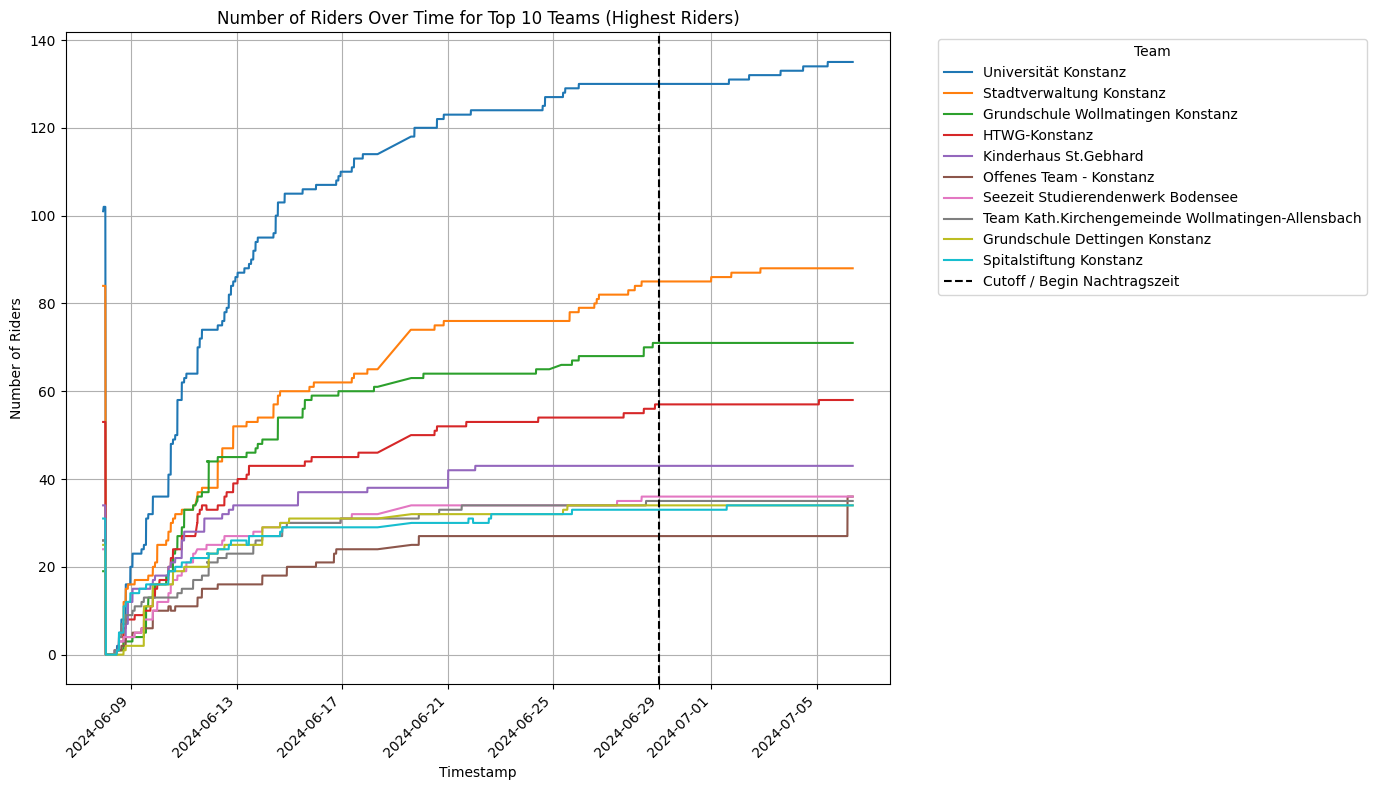
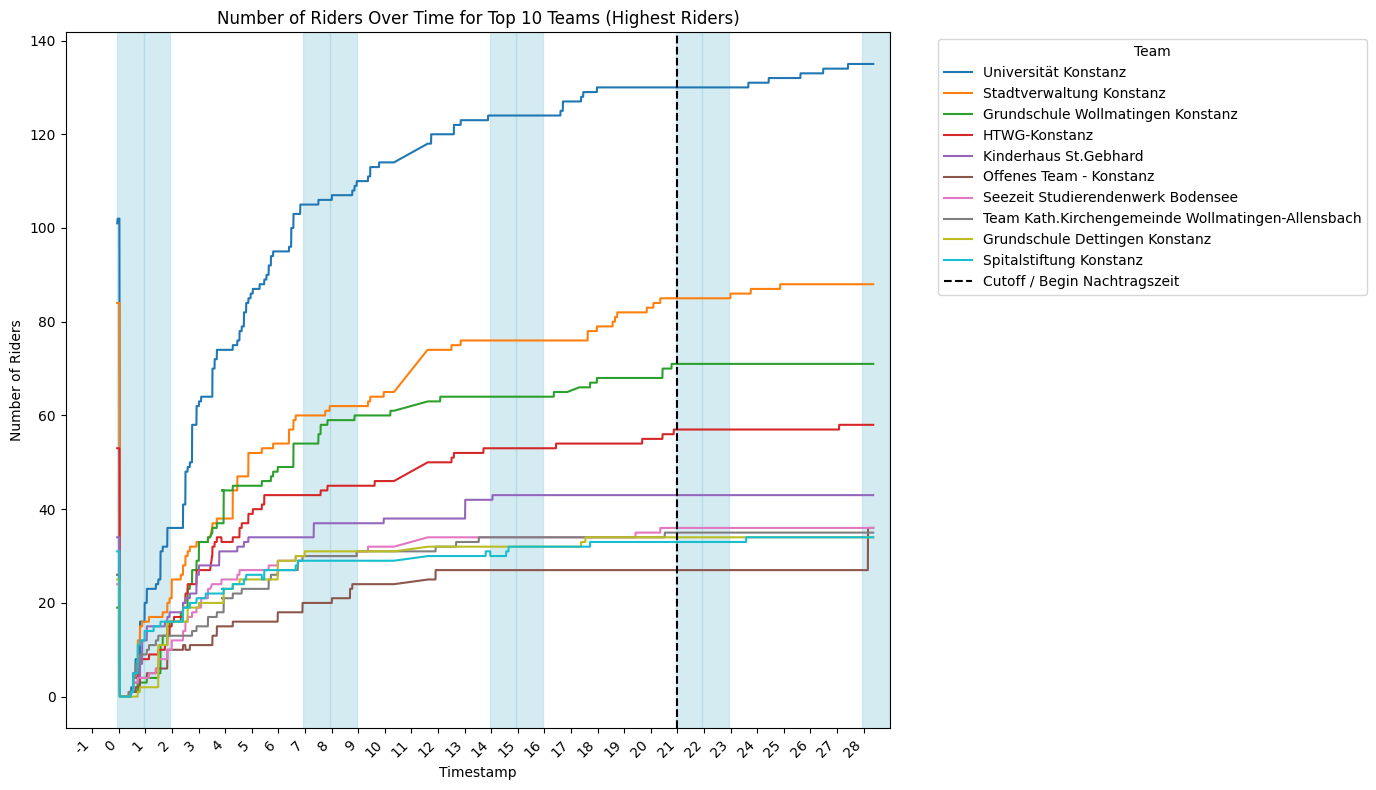
updated readme

diff --git a/README.md b/README.md
@@ -22,12 +22,55 @@ The crawling code can be found in [here](https://github.com/Corin-R/stadtradeln/
 
 There is a README explaining the usage and details and possibly changes to the code. 
 
-# Teaser Figures
+# Analysis
 
-![Kilometers](evaluations/km_top_10_teams.png)
+## Kilometers traveled by top 10 teams
 
-![Number of riders](evaluations/Number_Of_Riders_Top_10_Teams.png)
+See these figures
+
+
+![Kilometers](evaluations/km_top_10_teams_f.png)
+
+
+![Kilometers_close](evaluations/km_top_10_teams_closeup.png)
+
+
+The second figure is a closeup of the first week where the competition was quite fierce. 
+
+The blue columns mark the respective weekends. Naturally, the event for Konstanz started at a Saturday and ended on a Friday. 
+
+## Participating Riders per team 
+
+
+![Riders](evaluations/Number_Of_Riders_Top_Teams_f.png)
+
+
+## Weather
+
+The wether data was downloaded after the event from meteoblue.com 
+
+![weather](evaluations/meteogram_history.png)
+
 
 ### Data statistics
 
 ![Crawling Mishaps](evaluations/data_consistency.png)
+
+This figure displays how many times a date appears in the original data. 
+
+With this figure, we can easily identify what went wrong while crawling. 
+
+Most importantly, there are two major gaps.
+
+The first gap spans from 18.06 at 08:00 to 19.06 at 14:00 
+
+The second gap spans from 24.06 at 20:00 to 25.06 at 08:00
+
+The first gap was a mishap from me, when I did not notice that the crawl has suspended. The second gap was me having a good nights rest and noticing at the morning. 
+
+Relatively speaking in the beginning on the 11.06 my PC had a forced windows update, which resetted my time to UTC. That is why there are some timestamps missing at 10:00. 
+
+There are some duplicate timestamps at 20:00 the same day, which is attributed to me resetting my time to local time again. 
+
+Lesson learned, I will timestamp my crawl using utc and not local pc time. 
+
